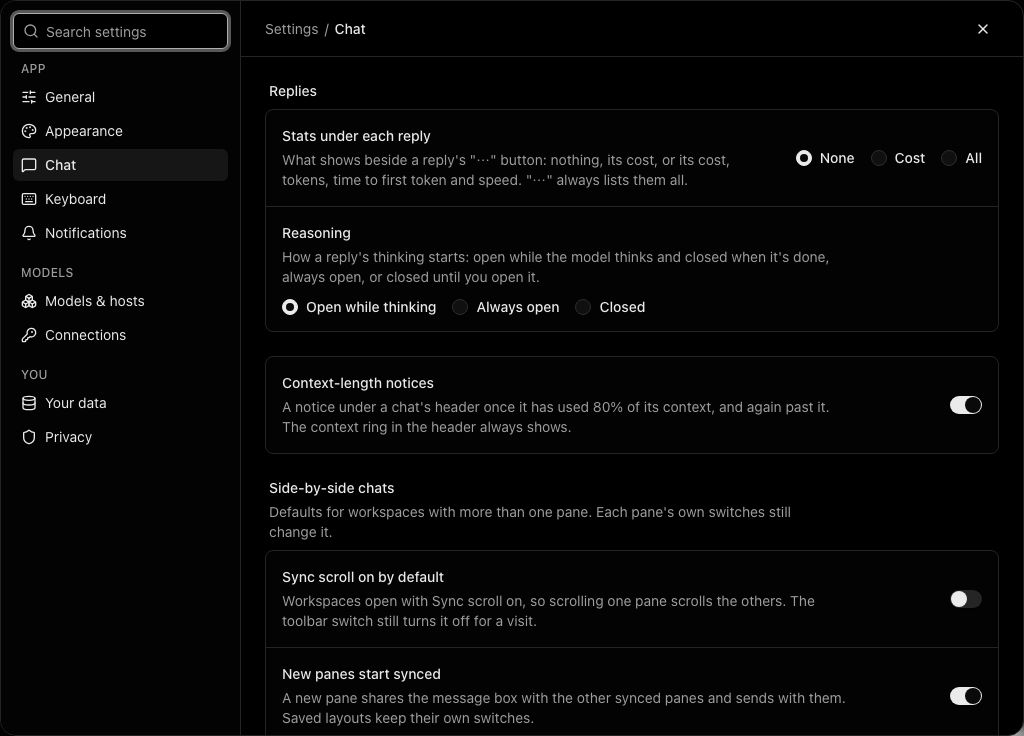
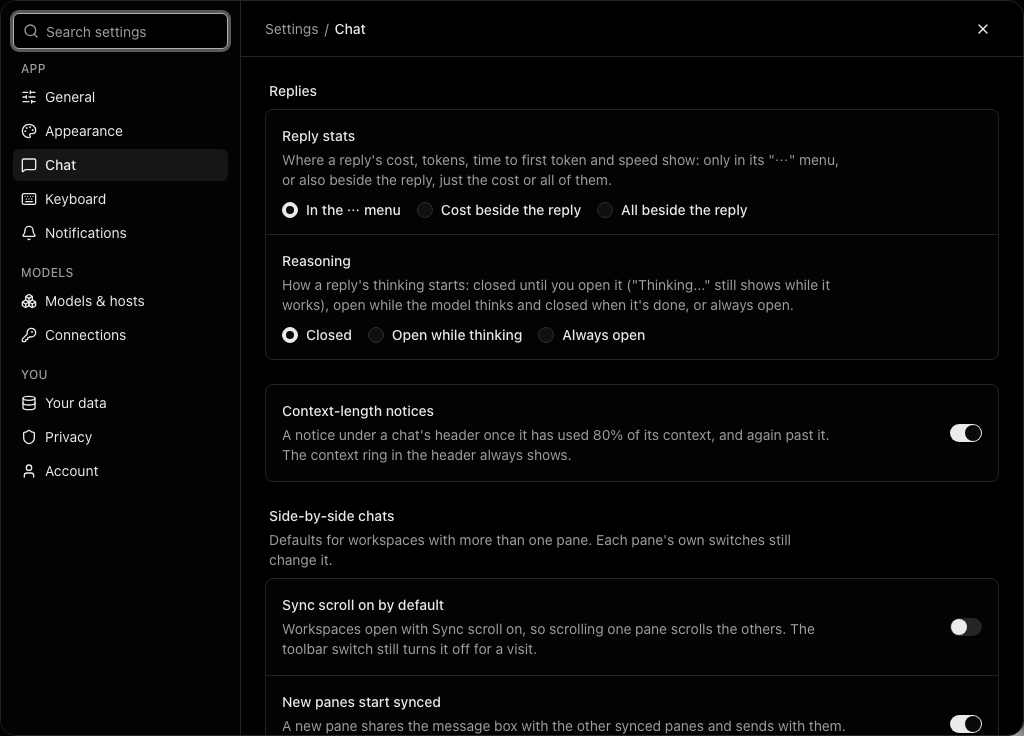
feat: reasoning starts closed, and reply stats say where they show (S10 review)

diff --git a/e2e/chat-settings.spec.ts b/e2e/chat-settings.spec.ts
@@ -5,7 +5,8 @@ import { expect, test } from "./support/fixtures";
 import { settingsDialog } from "./support/settings";
 import { openWorkspace, pane, panes, setUp } from "./support/workspaces";
 
-// Roadmap R2 S10: Settings → Chat. Stats under each reply (none, cost, all), how reasoning starts, and
+// Roadmap R2 S10: Settings → Chat. Reply stats (in the "⋯" menu, or cost or all beside the reply), how
+// reasoning starts (closed by default), and
 // the Sync scroll and "new panes start synced" defaults for workspaces. Each is set in the dialog,
 // then checked on a new chat. Replies come from the AI SDK mock model (hard rule 6).
 
@@ -29,80 +30,39 @@ async function closeSettings(page: Page) {
 	await expect(settingsDialog(page)).toHaveCount(0);
 }
 
-/** A new mock chat (/e2e/chat) with one finished reply. */
+/**
+ * Resolves once the "Thinking..." line is on screen with none of the answer yet, checked every frame:
+ * the mock reasons for about 200 ms, which expect's polls can step over.
+ */
+function thinkingShows(page: Page) {
+	return page.waitForFunction(
+		(answer) =>
+			[...document.querySelectorAll("main *")].some(
+				(element) =>
+					element.childElementCount === 0 &&
+					element.textContent === "Thinking..." &&
+					element.getClientRects().length > 0,
+			) && !document.querySelector("main")?.textContent?.includes(answer),
+		"word1",
+		{ polling: "raf" },
+	);
+}
+
+/** A new mock chat (/e2e/chat) with one finished reply; resolves once "Thinking..." showed and it ended. */
 async function replyOnce(page: Page) {
 	await page.goto("/e2e/chat");
 	await expect(page.locator("main[data-chat-id]")).toBeAttached();
+	const thinking = thinkingShows(page);
 	const box = page.getByPlaceholder("Ask anything");
 	await box.fill("Hello mock");
 	await box.press("Enter");
+	await thinking;
 	await expect(page.getByText(replyText)).toBeVisible();
 	await expect(status(page)).toHaveAttribute("data-chat-status", "ready");
 }
 
-test("the defaults: no stats under a reply, reasoning open only while thinking, panes synced, sync scroll off", async ({
-	page,
-	context,
-}) => {
-	const dialog = await openChatSettings(page);
-	await expect(
-		dialog.getByRole("radiogroup", { name: "Stats under each reply" }),
-	).toBeVisible();
-	await expect(dialog.getByRole("radio", { name: "None" })).toBeChecked();
-	await expect(
-		dialog.getByRole("radio", { name: "Open while thinking" }),
-	).toBeChecked();
-	await expect(
-		dialog.getByRole("switch", { name: "Sync scroll on by default" }),
-	).not.toBeChecked();
-	await expect(
-		dialog.getByRole("switch", { name: "New panes start synced" }),
-	).toBeChecked();
-	await closeSettings(page);
-
-	await replyOnce(page);
-	await expect(inlineStats(page)).toHaveCount(0);
-	// Opened while it streamed, closed again once done.
-	await expect(
-		page.getByRole("button", { name: /Thought for/ }),
-	).toHaveAttribute("aria-expanded", "false");
-
-	await setUp(context, page, e2eMockModel("alpha"));
-	await openWorkspace(page, 3);
-	for (const n of [1, 2, 3]) {
-		await expect(
-			pane(page, n).getByRole("switch", { name: `Sync Pane ${n}` }),
-		).toBeChecked();
-	}
-	await expect(
-		page.getByRole("switch", { name: "Sync scroll" }),
-	).not.toBeChecked();
-});
-
-test("stats under each reply show the cost, or cost, tokens and timings", async ({
-	page,
-}) => {
-	const dialog = await openChatSettings(page);
-	await dialog.getByRole("radio", { name: "All" }).click();
-	await closeSettings(page);
-
-	await replyOnce(page);
-	// The mock model reports 3 + 5 tokens and has no price.
-	await expect(inlineStats(page)).toHaveText(
-		/^8 tokens · \d+(\.\d)? (ms|s) · \d+ tok\/s$/,
-	);
-
-	// A priced fixture reply: "Cost" keeps only its cost, and an estimate is marked.
-	await page.goto("/new?settings=chat");
-	await settingsDialog(page).getByRole("radio", { name: "Cost" }).click();
-	await closeSettings(page);
-	await page.goto("/e2e/usage");
-	await expect(page.locator("main[data-hydrated='true']")).toBeAttached();
-	await expect(inlineStats(page)).toHaveText(["$0.0042", "~$0.0011"]);
-});
-
-test("reasoning can start closed, or stay open", async ({ page }) => {
-	// Records whether a reasoning panel was ever open on a page load, from the first paint.
+/** Records, from each page load's first paint, whether a reasoning panel was ever open. */
+async function watchReasoning(page: Page) {
 	await page.addInitScript(() => {
 		const seen = { opened: false };
 		Object.assign(window, { __reasoning: seen });
@@ -121,22 +81,97 @@ test("reasoning can start closed, or stay open", async ({ page }) => {
 			attributeFilter: ["aria-expanded"],
 		});
 	});
-	const everOpened = () =>
+	return () =>
 		page.evaluate(
 			() =>
 				(window as unknown as { __reasoning: { opened: boolean } }).__reasoning
 					.opened,
 		);
-	let dialog = await openChatSettings(page);
-	await dialog.getByRole("radio", { name: "Closed" }).click();
+}
+
+const thoughtFor = (page: Page) =>
+	page.getByRole("button", { name: /Thought for/ });
+
+test("the defaults: stats only in the ⋯ menu, reasoning closed, panes synced, sync scroll off", async ({
+	page,
+	context,
+}) => {
+	const everOpened = await watchReasoning(page);
+	const dialog = await openChatSettings(page);
+	await expect(
+		dialog.getByRole("radiogroup", { name: "Reply stats" }),
+	).toBeVisible();
+	await expect(
+		dialog.getByRole("radio", { name: "In the ⋯ menu" }),
+	).toBeChecked();
+	await expect(dialog.getByRole("radio", { name: "Closed" })).toBeChecked();
+	await expect(
+		dialog.getByRole("switch", { name: "Sync scroll on by default" }),
+	).not.toBeChecked();
+	await expect(
+		dialog.getByRole("switch", { name: "New panes start synced" }),
+	).toBeChecked();
+	await closeSettings(page);
+
+	// "Thinking..." shows while it streams (replyOnce waits for it), but the reasoning never opens.
+	await replyOnce(page);
+	await expect(inlineStats(page)).toHaveCount(0);
+	await expect(thoughtFor(page)).toHaveAttribute("aria-expanded", "false");
+	await expect(page.getByText(reasoningText)).toHaveCount(0);
+	expect(await everOpened()).toBe(false);
+	// Still opens on request, and the stats are in the ⋯ menu.
+	await thoughtFor(page).click();
+	await expect(page.getByText(reasoningText)).toBeVisible();
+	await page.getByRole("button", { name: "Reply details" }).click();
+	await expect(page.locator("[data-usage='reply']")).toContainText("Tokens8");
+	await page.keyboard.press("Escape");
+
+	await setUp(context, page, e2eMockModel("alpha"));
+	await openWorkspace(page, 3);
+	for (const n of [1, 2, 3]) {
+		await expect(
+			pane(page, n).getByRole("switch", { name: `Sync Pane ${n}` }),
+		).toBeChecked();
+	}
+	await expect(
+		page.getByRole("switch", { name: "Sync scroll" }),
+	).not.toBeChecked();
+});
+
+test("reply stats can show the cost, or cost, tokens and timings, beside the reply", async ({
+	page,
+}) => {
+	const dialog = await openChatSettings(page);
+	await dialog.getByRole("radio", { name: "All beside the reply" }).click();
 	await closeSettings(page);
 
 	await replyOnce(page);
-	const trigger = page.getByRole("button", { name: /Thought for/ });
-	await expect(trigger).toHaveAttribute("aria-expanded", "false");
-	await expect(page.getByText(reasoningText)).toHaveCount(0);
-	// Not even while it streamed.
-	expect(await everOpened()).toBe(false);
+	// The mock model reports 3 + 5 tokens and has no price.
+	await expect(inlineStats(page)).toHaveText(
+		/^8 tokens · \d+(\.\d)? (ms|s) · \d+ tok\/s$/,
+	);
+
+	// A priced fixture reply: cost only, and an estimate is marked.
+	await page.goto("/new?settings=chat");
+	await settingsDialog(page)
+		.getByRole("radio", { name: "Cost beside the reply" })
+		.click();
+	await closeSettings(page);
+	await page.goto("/e2e/usage");
+	await expect(page.locator("main[data-hydrated='true']")).toBeAttached();
+	await expect(inlineStats(page)).toHaveText(["$0.0042", "~$0.0011"]);
+});
+
+test("reasoning can open while thinking, or stay open", async ({ page }) => {
+	const everOpened = await watchReasoning(page);
+	let dialog = await openChatSettings(page);
+	await dialog.getByRole("radio", { name: "Open while thinking" }).click();
+	await closeSettings(page);
+
+	// Open while it streamed, closed once it's done.
+	await replyOnce(page);
+	expect(await everOpened()).toBe(true);
+	await expect(thoughtFor(page)).toHaveAttribute("aria-expanded", "false");
 
 	dialog = await openChatSettings(page);
 	await dialog.getByRole("radio", { name: "Always open" }).click();
@@ -145,7 +180,7 @@ test("reasoning can start closed, or stay open", async ({ page }) => {
 	await replyOnce(page);
 	// Past the auto-close delay, it's still open.
 	await page.waitForTimeout(1500);
-	await expect(trigger).toHaveAttribute("aria-expanded", "true");
+	await expect(thoughtFor(page)).toHaveAttribute("aria-expanded", "true");
 	await expect(page.getByText(reasoningText)).toBeVisible();
 });
 

diff --git a/src/lib/chat/chat-prefs.ts b/src/lib/chat/chat-prefs.ts
@@ -7,22 +7,26 @@ import { z } from "@/lib/zod";
 
 export const CHAT_PREFS_KEY = "highelo-chat-prefs";
 
-/** What shows under a reply, beside its "⋯": nothing, its cost, or cost, tokens and timings. */
+/**
+ * Where a reply's stats show: only in its "⋯" menu (stored as `none`), or also beside the reply: just the
+ * cost, or cost, tokens and timings. The "⋯" menu always lists them all.
+ */
 export const INLINE_STATS = ["none", "cost", "all"] as const;
 export type InlineStats = (typeof INLINE_STATS)[number];
 
 /**
- * How a reply's reasoning starts: open while the model thinks and closed once it's done, always open,
- * or closed until the person opens it.
+ * How a reply's reasoning starts: closed until the person opens it (its "Thinking..." line still shows
+ * while it streams), open while the model thinks and closed once it's done, or always open. Add a
+ * choice here, with its label in `chat-settings.tsx` and its props in `message-ui.tsx`.
  */
-export const REASONING_STARTS = ["while-thinking", "open", "closed"] as const;
+export const REASONING_STARTS = ["closed", "while-thinking", "open"] as const;
 export type ReasoningStart = (typeof REASONING_STARTS)[number];
 
 const schema = z.object({
 	/** A notice in the pane header when the chat nears or passes its context length. */
 	contextWarnings: z.boolean().default(true),
 	inlineStats: z.enum(INLINE_STATS).default("none"),
-	reasoning: z.enum(REASONING_STARTS).default("while-thinking"),
+	reasoning: z.enum(REASONING_STARTS).default("closed"),
 	/** Whether a workspace opens with Sync scroll on (roadmap 3.4). */
 	syncScroll: z.boolean().default(false),
 	/** Whether a pane added to a workspace, or a new workspace's panes, start synced (roadmap 3.2). */
@@ -34,7 +38,7 @@ export type ChatPrefs = z.infer<typeof schema>;
 export const DEFAULT_CHAT_PREFS: ChatPrefs = {
 	contextWarnings: true,
 	inlineStats: "none",
-	reasoning: "while-thinking",
+	reasoning: "closed",
 	syncScroll: false,
 	newPanesSynced: true,
 };

diff --git a/e2e/chat.spec.ts b/e2e/chat.spec.ts
@@ -1,4 +1,5 @@
 import type { Page } from "@playwright/test";
+import { CHAT_PREFS_KEY } from "../src/lib/chat/chat-prefs";
 import { MOCK_REASONING, MOCK_REPLY } from "../src/routes/e2e/-mock-chat";
 import { expect, test } from "./support/fixtures";
 
@@ -32,6 +33,14 @@ function thinkingShows(page: Page) {
 	);
 }
 
+/** Reasoning opens while it streams (Settings → Chat; the default is closed, R2 S10). */
+async function openReasoningWhileThinking(page: Page) {
+	await page.addInitScript(([key, value]) => localStorage.setItem(key, value), [
+		CHAT_PREFS_KEY,
+		JSON.stringify({ reasoning: "while-thinking" }),
+	] as const);
+}
+
 async function send(page: Page, text: string) {
 	const box = page.getByPlaceholder("Ask anything");
 	await box.fill(text);
@@ -45,6 +54,7 @@ const reply = (page: Page) =>
 test("a reply streams in, reasoning first and live, then saves locally", async ({
 	page,
 }) => {
+	await openReasoningWhileThinking(page);
 	await open(page);
 	const thinking = thinkingShows(page);
 	await send(page, "Hello mock");
@@ -169,6 +179,7 @@ test("finished reasoning reopens collapsed after a reload, without opening first
 			attributeFilter: ["aria-expanded"],
 		});
 	});
+	await openReasoningWhileThinking(page);
 	await open(page);
 	await send(page, "Hello mock");
 	// A live reply opens its reasoning.

diff --git a/src/lib/settings/registry.ts b/src/lib/settings/registry.ts
@@ -358,11 +358,12 @@ export const SETTINGS = [
 		id: "inline-stats",
 		section: "chat",
 		card: "replies",
-		label: "Stats under each reply",
+		label: "Reply stats",
 		description:
-			'What shows beside a reply\'s "⋯" button: nothing, its cost, or its cost, tokens, time to first token and speed. "⋯" always lists them all.',
+			'Where a reply\'s cost, tokens, time to first token and speed show: only in its "⋯" menu, or also beside the reply, just the cost or all of them.',
 		keywords: [
 			"reply stats",
+			"inline stats",
 			"cost",
 			"price",
 			"tokens",
@@ -375,7 +376,7 @@ export const SETTINGS = [
 		],
 		scope: "global",
 		storage: "syncs",
-		layout: "inline",
+		layout: "block",
 	},
 	{
 		id: "reasoning-start",
@@ -383,7 +384,7 @@ export const SETTINGS = [
 		card: "replies",
 		label: "Reasoning",
 		description:
-			"How a reply's thinking starts: open while the model thinks and closed when it's done, always open, or closed until you open it.",
+			"How a reply's thinking starts: closed until you open it (\"Thinking...\" still shows while it works), open while the model thinks and closed when it's done, or always open.",
 		keywords: [
 			"thinking",
 			"reasoning open",

diff --git a/src/components/settings/chat-settings.tsx b/src/components/settings/chat-settings.tsx
@@ -14,15 +14,15 @@ import type { SettingControlProps } from "./setting-row-props";
 // Settings → Chat (roadmap R2 S4 and S10).
 
 const INLINE_STATS_LABELS: Record<InlineStats, string> = {
-	none: "None",
-	cost: "Cost",
-	all: "All",
+	none: "In the ⋯ menu",
+	cost: "Cost beside the reply",
+	all: "All beside the reply",
 };
 
 const REASONING_LABELS: Record<ReasoningStart, string> = {
+	closed: "Closed",
 	"while-thinking": "Open while thinking",
 	open: "Always open",
-	closed: "Closed",
 };
 
 type SwitchPref = "contextWarnings" | "syncScroll" | "newPanesSynced";

diff --git a/src/components/chat/chatstuff/message-ui.tsx b/src/components/chat/chatstuff/message-ui.tsx
@@ -109,7 +109,7 @@ const REASONING_START_PROPS: Record<
 	ReasoningStart,
 	{ defaultOpen: boolean; autoClose: boolean }
 > = {
+	closed: { defaultOpen: false, autoClose: false },
 	"while-thinking": { defaultOpen: true, autoClose: true },
 	open: { defaultOpen: true, autoClose: false },
-	closed: { defaultOpen: false, autoClose: false },
 };

diff --git a/src/lib/chat/chat-prefs.test.ts b/src/lib/chat/chat-prefs.test.ts
@@ -18,7 +18,7 @@ describe("chat prefs", () => {
 		expect(DEFAULT_CHAT_PREFS).toEqual({
 			contextWarnings: true,
 			inlineStats: "none",
-			reasoning: "while-thinking",
+			reasoning: "closed",
 			syncScroll: false,
 			newPanesSynced: true,
 		});

diff --git a/docs/data-inventory.md b/docs/data-inventory.md
@@ -51,7 +51,7 @@ Promises the design already makes. Changing one of these is a product decision, 
 | Live host status for the model the picker previews (public endpoint data: prices, uptime, latency) | Fetched from OpenRouter and AI Gateway when the picker opens, kept in the tab's memory for 3 minutes | OpenRouter and Vercel see your IP address and which model ids you previewed (no key, no cookies) | Until the tab closes | Since 2.2b (2026-10-28) |
 | Recent request failures per host (host id, HTTP status, time; forgotten after 15 minutes) | Your browser's localStorage (`highelo-host-failures`). No content | Nobody else | 15 minutes, or until you clear site data | Since 2.2b (2026-10-28) |
 | Background status settings (tab status on/off, notify when a reply finishes or fails, whether we already offered notifications) | Your browser's localStorage (`highelo-background-status`) | Nobody else | Until you change them or clear site data | Since 3.10 (2026-10-29) |
-| Chat settings: context-length notices on or off; stats under each reply (none, cost, all); reasoning starts open while thinking, always open, or closed; sync scroll on by default; new panes start synced | Your browser's localStorage (`highelo-chat-prefs`). No content | Nobody else | Until you change it or clear site data | Since R2 S4 (2026-11-10); reply stats, reasoning and pane defaults since R2 S10 (2026-11-16) |
+| Chat settings: context-length notices on or off; reply stats only in the "⋯" menu or also beside the reply (cost or all); reasoning starts closed, open while thinking, or always open; sync scroll on by default; new panes start synced | Your browser's localStorage (`highelo-chat-prefs`). No content | Nobody else | Until you change it or clear site data | Since R2 S4 (2026-11-10); reply stats, reasoning and pane defaults since R2 S10 (2026-11-16) |
 | Closed context-length notices: chat id and the level it was closed at (nearing or past the context), up to 500 chats, oldest dropped first | Your browser's localStorage (`highelo-context-notices`). No content | Nobody else | Until you clear site data | Since R2 S4 (2026-11-12) |
 | Appearance settings (theme, fonts, text size, density, accent and per-token colors), plus the derived class and CSS values the page applies before first paint. Export writes them to a JSON file you download; import reads one you pick | Your browser's localStorage (`highelo-appearance`, `highelo-appearance-boot`). No content | Nobody else (synced in Phase 6) | Until you change them or clear site data | Since 3.11 (2026-10-31) |
 | Reply notifications while the tab is hidden: "Reply ready in <chat title>" or "Reply failed in <chat title>", never message content. The tab title and icon show only counts | Your operating system's notification center, once you allow notifications for the site | Anyone who can see your screen or notification history | Until you dismiss it, per your OS | Since 3.10 (2026-10-29) |
